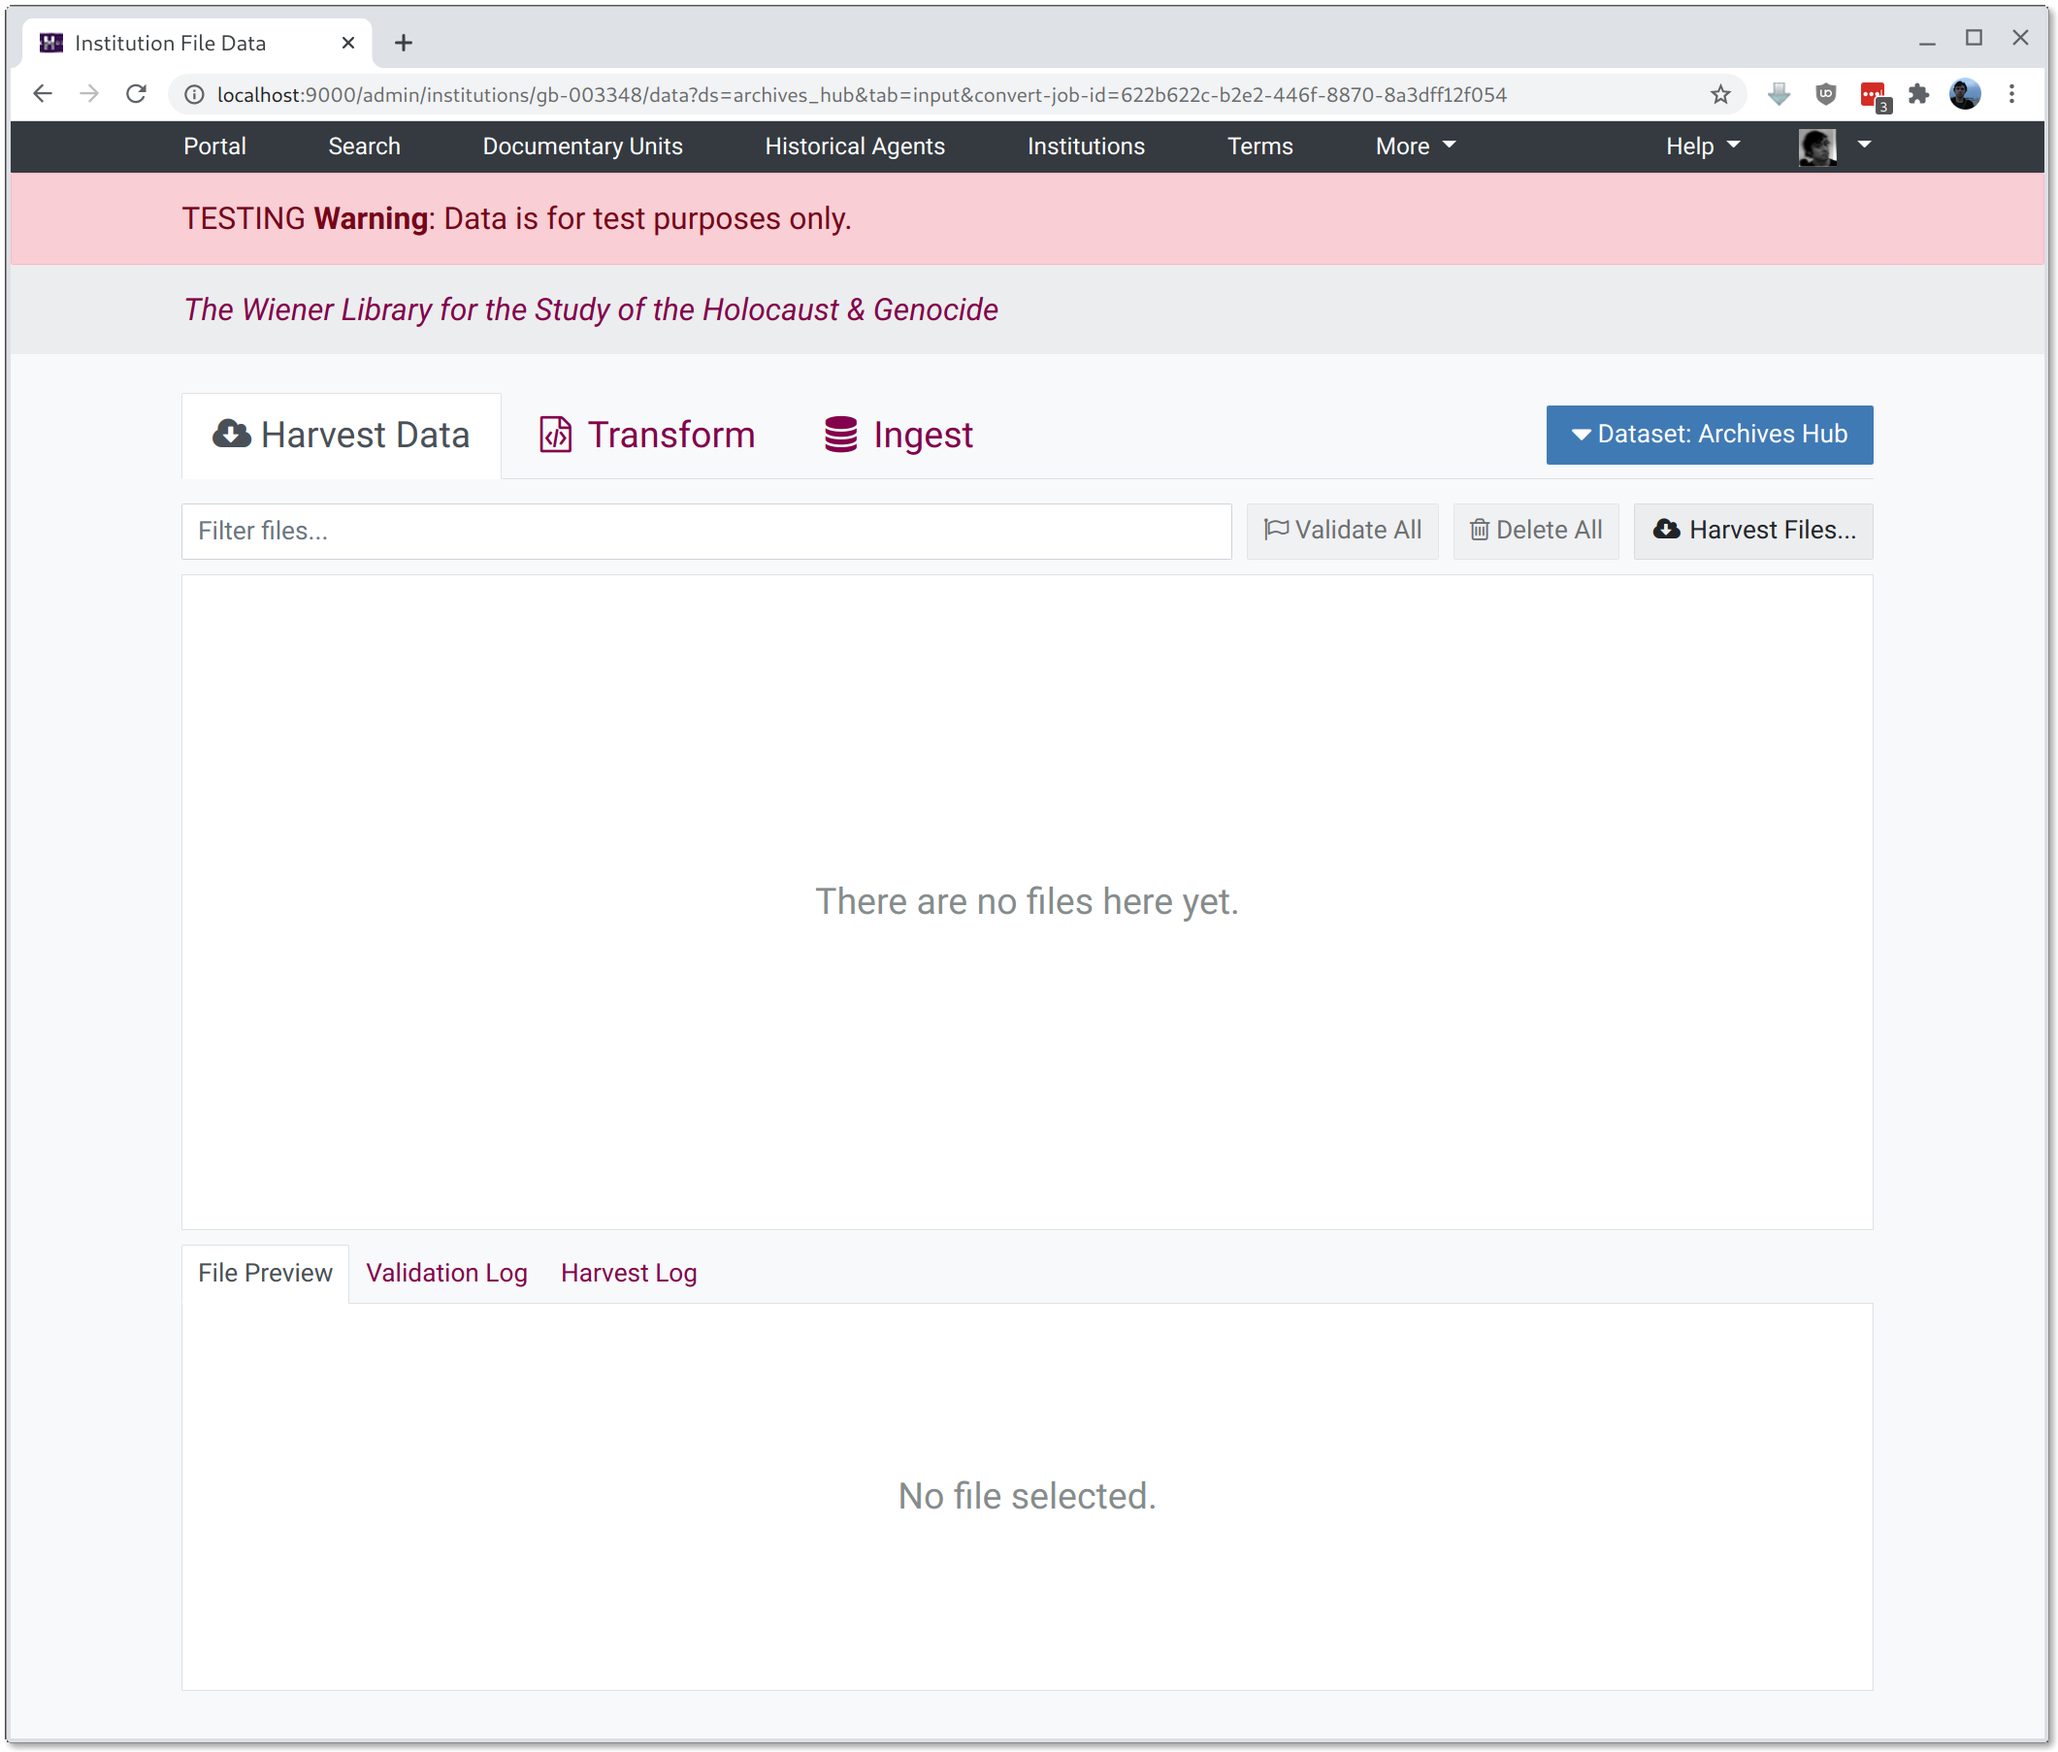
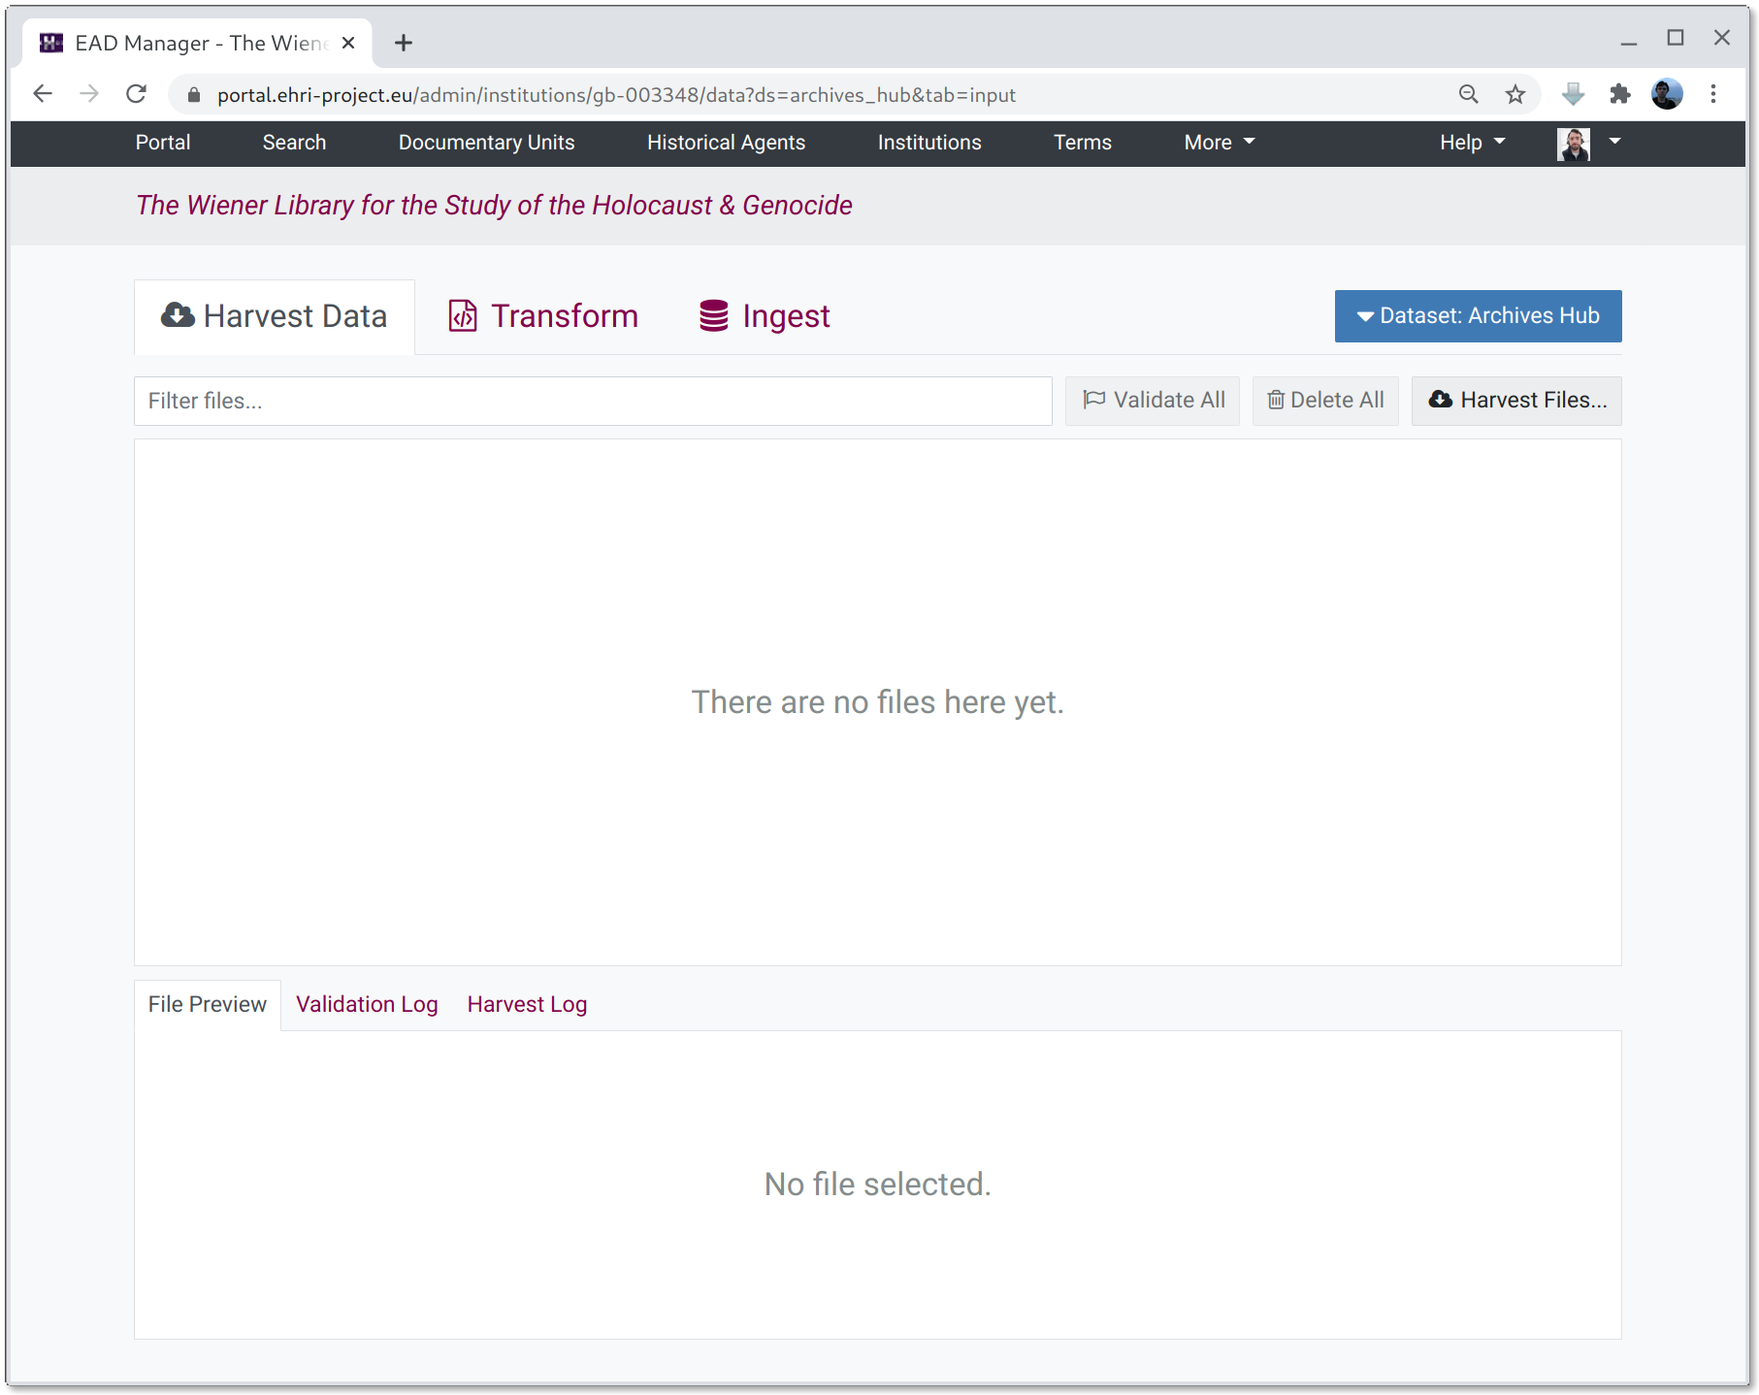
Update docs with new screenshots of the production portal.
Also a few other tweaks.

diff --git a/docs/_static/ehri-theme.css b/docs/_static/ehri-theme.css
@@ -29,3 +29,7 @@ a:hover {
 .wy-menu-vertical a:active {
     background-color: #9B59B6;
 }
+
+.alert-danger {
+    color: #f00;
+}

diff --git a/docs/administration/institution-data.rst b/docs/administration/institution-data.rst
@@ -1,10 +1,10 @@
 
-=====================
-Institution File Data
-=====================
+===================
+Importing EAD Files
+===================
 
-Important Note: This documentation refers to functionality in a very early stage of development and is likely to be outdated or inaccurate!
-###########################################################################################################################################
+.. role:: alert-danger
+:alert-danger:`Important Note: This documentation refers to functionality at an early stage of development and may be outdated or inaccurate!`
 
 Introduction
 ============
@@ -18,14 +18,20 @@ nutshell, it allows administrators to:
 * transform arbitrary XML to EAD using either XSLT or tabular XQuery mappings
 * ingest the resulting EAD into the EHRI portal
 
+Accessing the EAD Manager
+=========================
 
-Overview of the Data Management UI
-==================================
+The EAD Manager can be accessed via the "Ingest" section on the institutions admin page. 
+
+
+
+Overview of the EAD Manager
+===========================
 
 .. image:: images/data-management-new-dataset.png
     :alt: The data management default screen with new dataset form
 
-The first thing to do when visiting the Institution Data Management page is to create a new dataset. A dataset is a *set
+The first thing to do when visiting the EAD Manager is to create a new dataset. A dataset is a *set
 of XML files that come from the same place and are processed in the same way*. Although an institution could just have
 one dataset representing its files, there are several reasons why multiple datasets might be more appropriate:
 
@@ -209,5 +215,7 @@ These parameters currently consist of:
 * Tolerant: allows individual files in a batch to have validation errors without the whole batch failing.
 * Commit: actually commits the changes to the database. If left unchecked (the default) the ingest is effectively a
   dry-run.
+* Properties File: this allows uploading a properties file which can control how EAD fields map to portal internal
+  database fields. **This should only be used for compatibility with legacy data.**
 * Log message: a log message to be associated with the ingest operation.
 

diff --git a/docs/administration/ingest.rst b/docs/administration/ingest.rst
@@ -1,6 +1,10 @@
 EAD Ingest
 ==========
 
+.. role:: alert-danger
+:alert-danger:`Note: this method of importing EAD is deprecated in favour of using the` `EAD Manager <institution-data.html>`__.
+
+
 EHRI administrators can ingest EAD into the portal via a web interface. Behind the scenes the process is the same as
 that documented in the `backend ingest section <../technical/backend/ingest.html>`_ but using the web interface does
 more, as described below.
